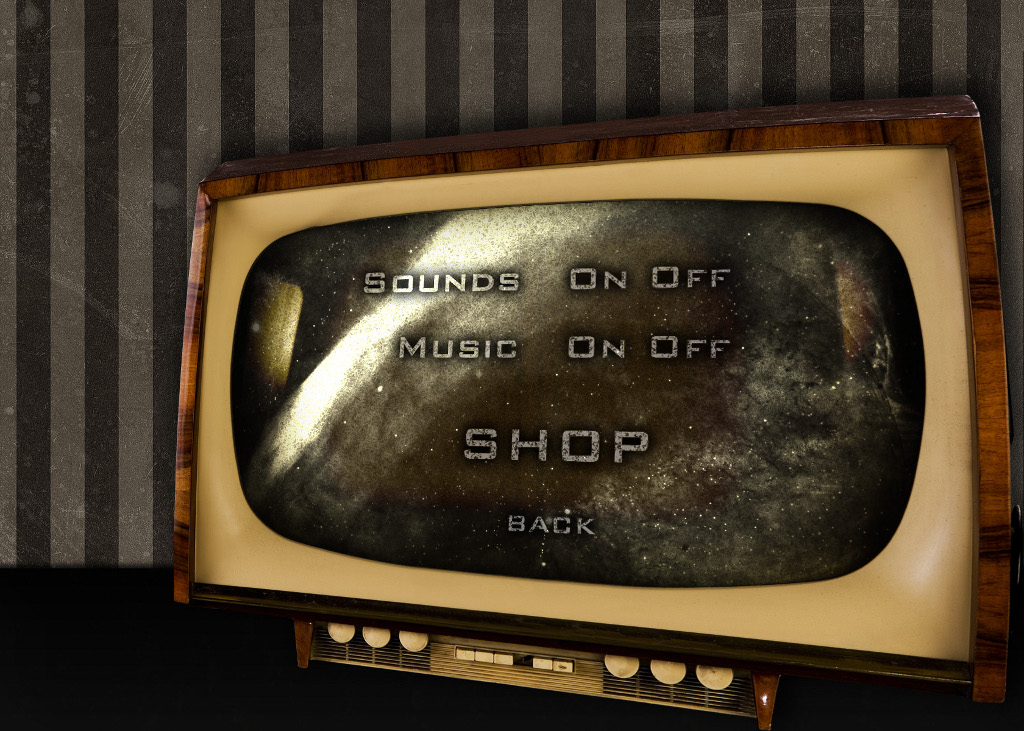
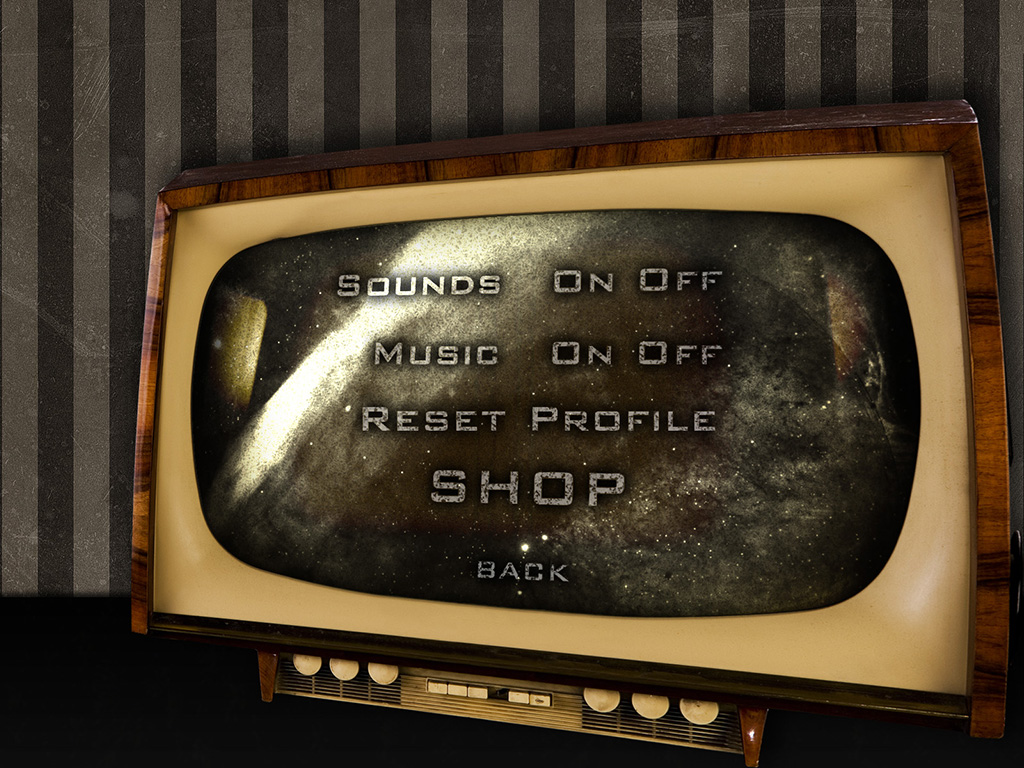
images options

diff --git a/src/Bouton.py b/src/Bouton.py
@@ -94,12 +94,6 @@ class BoutonReinitialiser(Bouton):
         ecranOption.addButton(BoutonReinitialiser("images/menu/menu/titles/reinitialiser.png",0 , 485, self.player))
         ecranOption.afficher()
 
-class BoutonShop(Bouton): 
-    def __init__(self, image, x, y, isSelected=False):
-        Bouton.__init__(self, image, x, y, isSelected)
-    def action(self):
-        menuShop = Menu.Menu("images/menu/menu_shop/exemple_shop.jpg")
-        menuShop.afficher()
         
 class BoutonBack(Bouton): 
     def __init__(self, image, x, y, player, isSelected=False):
@@ -112,3 +106,19 @@ class BoutonBack(Bouton):
         ecranAccueil.addButton(BoutonCredits("images/menu/menu_principal/titles/credits.png",0, 415))
         ecranAccueil.addButton(BoutonQuit("images/menu/menu_principal/titles/quit.png",0, 485))
         ecranAccueil.afficher()
+        
+class BoutonShop(Bouton): 
+    def __init__(self, image, x, y, isSelected=False):
+        Bouton.__init__(self, image, x, y, isSelected)
+    def action(self):
+        menuShop = Menu.Menu("images/menu/menu_shop/background_menu_shop.jpg")
+        menuShop.addButton(BoutonGoldShip("images/menu/menu_shop/item1_gold_skin_selected.jpg", "images/menu/menu_shop/item1_gold_skin_unselected.jpg", 20, 150, True))
+        menuShop.afficher()
+        
+class BoutonGoldShip(Bouton): 
+    def __init__(self, image, imageAlt, x, y, isSelected=False):
+        Bouton.__init__(self, image, x, y, isSelected)
+        self.imageAlt = pygame.image.load(imageAlt)
+    def action(self):
+        print " "
+

diff --git a/src/Player.py b/src/Player.py
@@ -5,13 +5,14 @@ class Player:
         self.record = 0
         self.money = 0
         #ameliorations possedees
-        self.propulseurHorizontal = False
-        self.aerofrein = False
-        self.basicGunEvolution1 = False
-        self.basicGunEvolution2 = False
-        self.advancedGun = False
-        self.advancedGunEvolution1 = False
-        self.advancedGunEvolution2 = False
+        self.goldShipOn = False
+        self.propulseurHorizontalOn = False
+        self.aerofreinOn = False
+        self.basicGunEvolution1On = False
+        self.basicGunEvolution2On = False
+        self.advancedGunOn = False
+        self.advancedGunEvolution1On = False
+        self.advancedGunEvolution2On = False
         #parametres generaux du jeu
         self.sound = True
         self.musicOn = True
